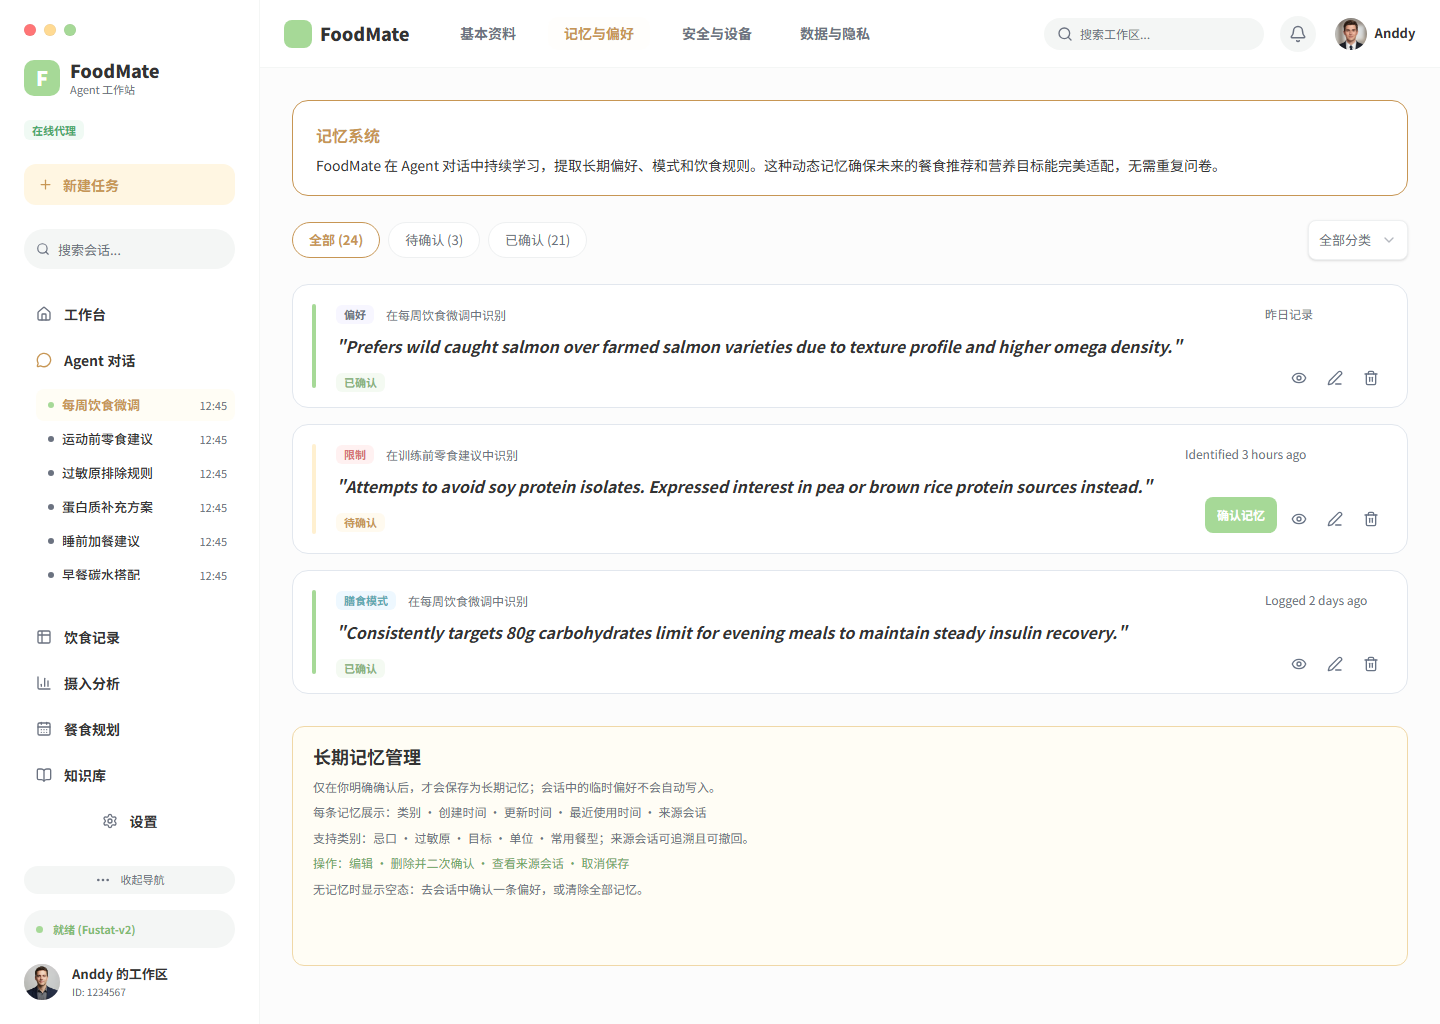
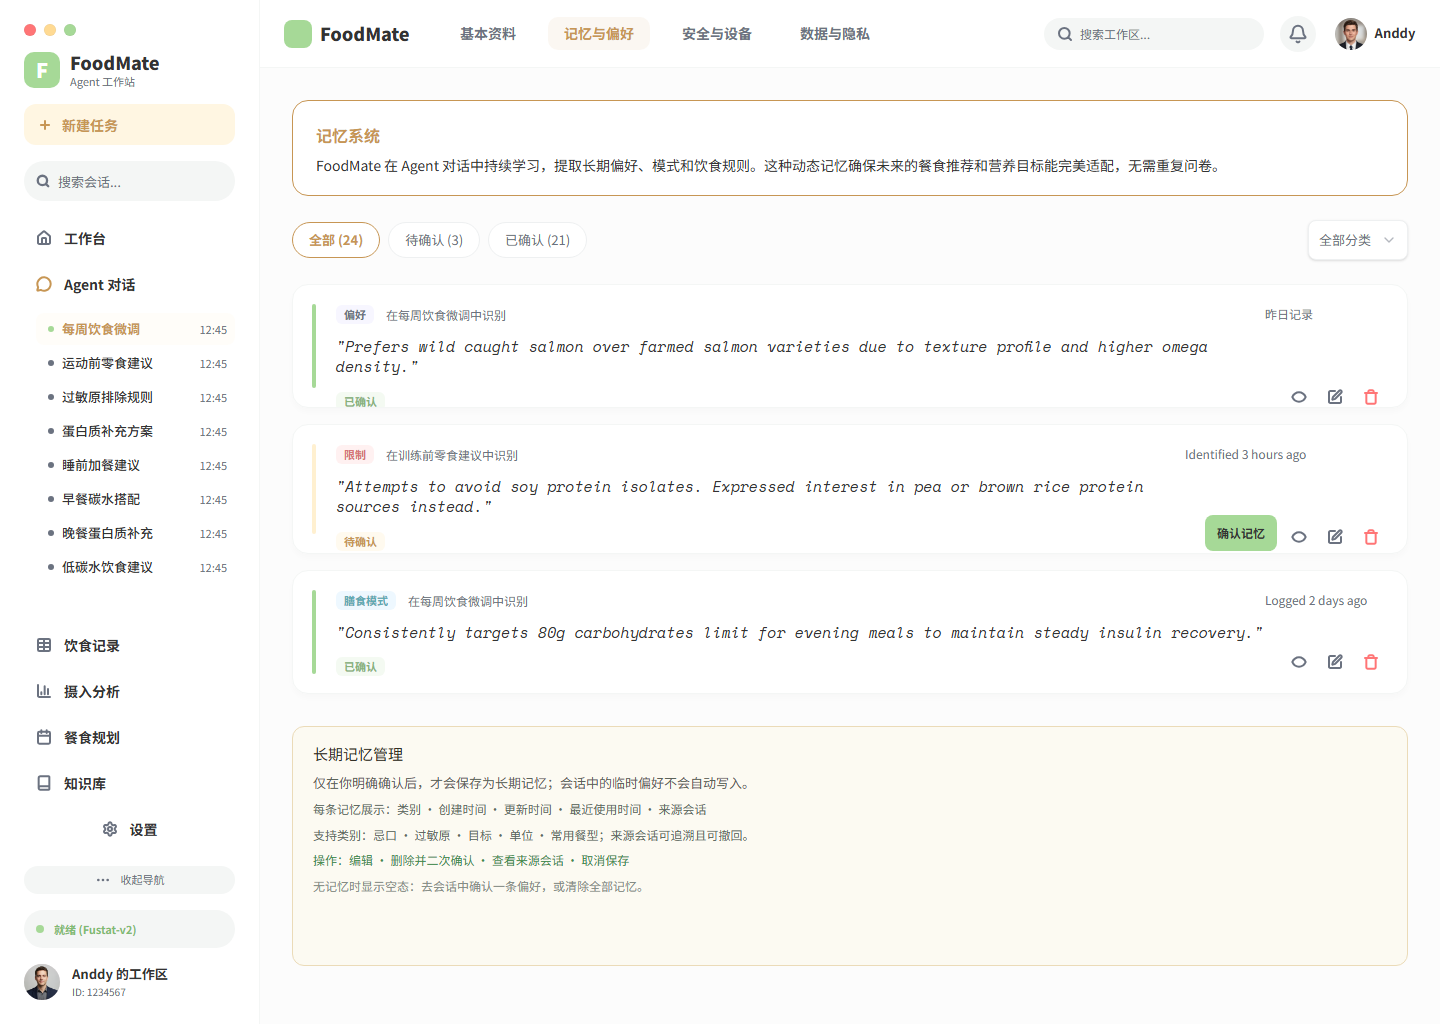
feat(profile): 收口 Figma Memories fixture

diff --git a/foodmate-ui/src/pages/ProfilePage/ProfilePage.tsx b/foodmate-ui/src/pages/ProfilePage/ProfilePage.tsx
@@ -34,6 +34,7 @@ import { Progress } from '@/components/ui/progress';
 import { Select, SelectContent, SelectItem, SelectTrigger, SelectValue } from '@/components/ui/select';
 import { Textarea } from '@/components/ui/textarea';
 import { Tooltip, TooltipContent, TooltipTrigger } from '@/components/ui/tooltip';
+import { FigmaWorkspaceAsset } from '@/components/workspace/FigmaWorkspaceAsset';
 import { cn } from '@/lib/utils';
 import { FIGMA_PROFILE_AVATARS, getDefaultAvatarForGender } from '@/lib/avatar';
 import { getAuthUser, logout } from '@/services/authService';
@@ -1201,6 +1202,7 @@ function MemoriesTab({ figmaFixture = false }: { figmaFixture?: boolean }) {
             <MemoryRow
               key={memory.id}
               memory={memory}
+              figmaFixture={figmaFixture}
               onConfirm={() =>
                 setMemories((items) =>
                   items.map((item) => (item.id === memory.id ? { ...item, status: 'confirmed' } : item)),
@@ -1293,12 +1295,14 @@ function MemoriesTab({ figmaFixture = false }: { figmaFixture?: boolean }) {
 
 function MemoryRow({
   memory,
+  figmaFixture = false,
   onConfirm,
   onEdit,
   onDelete,
   onSource,
 }: {
   memory: Memory;
+  figmaFixture?: boolean;
   onConfirm: () => void;
   onEdit: () => void;
   onDelete: () => void;
@@ -1324,13 +1328,25 @@ function MemoryRow({
           </Button>
         ) : null}
         <IconAction label="查看来源会话" onClick={onSource}>
-          <Eye aria-hidden="true" />
+          {figmaFixture ? (
+            <FigmaWorkspaceAsset variant="profile" name="memoryView" className={styles.figmaMemoryIcon} />
+          ) : (
+            <Eye aria-hidden="true" />
+          )}
         </IconAction>
         <IconAction label="编辑记忆" onClick={onEdit}>
-          <Edit3 aria-hidden="true" />
+          {figmaFixture ? (
+            <FigmaWorkspaceAsset variant="profile" name="memoryEdit" className={styles.figmaMemoryIcon} />
+          ) : (
+            <Edit3 aria-hidden="true" />
+          )}
         </IconAction>
         <IconAction label="删除记忆" danger onClick={onDelete}>
-          <Trash2 aria-hidden="true" />
+          {figmaFixture ? (
+            <FigmaWorkspaceAsset variant="profile" name="memoryDelete" className={styles.figmaMemoryIcon} />
+          ) : (
+            <Trash2 aria-hidden="true" />
+          )}
         </IconAction>
       </div>
     </Card>

diff --git a/foodmate-ui/src/pages/ProfilePage/ProfilePage.module.css b/foodmate-ui/src/pages/ProfilePage/ProfilePage.module.css
@@ -632,6 +632,8 @@
   height: 124px;
   min-height: 124px;
   border-radius: 16px;
+  border-color: #f4f6f5;
+  box-shadow: 0 4px 6px rgba(0, 0, 0, 0.02);
 }
 
 .figmaMemoriesPage .memoryRowPending {
@@ -642,6 +644,48 @@
 .figmaMemoriesPage .memoryGuidance {
   margin-top: 8px;
   border-radius: 12px;
+  border-color: #ebdbb8;
+  background: #fcfaf2;
+}
+
+.figmaMemoriesPage .memoryQuote {
+  font-family: var(--font-mono);
+  font-size: 15px;
+  font-style: italic;
+  font-weight: 400;
+}
+
+.figmaMemoriesPage .memoryGuidance h2 {
+  color: #333026;
+  font-size: 15px;
+  font-weight: 400;
+}
+
+.figmaMemoriesPage .memoryGuidance p {
+  color: #616b63;
+  font-size: 12px;
+}
+
+.figmaMemoriesPage .memoryGuidance p:first-of-type {
+  color: #5c6359;
+  font-size: 13px;
+}
+
+.figmaMemoriesPage .memoryGuidance .guidanceAction {
+  color: #428c4d;
+}
+
+.figmaMemoriesPage .memoryGuidance p:last-of-type {
+  color: #858c85;
+}
+
+.figmaMemoriesPage .confirmButton {
+  color: #333;
+}
+
+.figmaMemoryIcon {
+  width: 16px;
+  height: 16px;
 }
 
 .memoryIntro {

diff --git a/foodmate-ui/src/pages/ProfilePage/ProfilePage.test.tsx b/foodmate-ui/src/pages/ProfilePage/ProfilePage.test.tsx
@@ -106,6 +106,11 @@ describe('ProfilePage', () => {
     const memoryPage = screen.getByRole('heading', { name: '记忆系统' }).closest('[data-figma-layout]');
 
     expect(memoryPage).toHaveAttribute('data-figma-layout', 'profile-memories');
+    expect(memoryPage?.querySelector('img[src="/assets/figma/workspace/profile/memory-eye.svg"]')).toBeInTheDocument();
+    expect(memoryPage?.querySelector('img[src="/assets/figma/workspace/profile/memory-edit.svg"]')).toBeInTheDocument();
+    expect(
+      memoryPage?.querySelector('img[src="/assets/figma/workspace/profile/memory-trash.svg"]'),
+    ).toBeInTheDocument();
   });
 
   it('limits the security Figma fixture to the two reference cards', () => {

diff --git a/foodmate-ui/src/components/workspace/FigmaWorkspaceAsset.tsx b/foodmate-ui/src/components/workspace/FigmaWorkspaceAsset.tsx
@@ -30,7 +30,10 @@ export type FigmaWorkspaceAssetName =
   | 'metricCarbs'
   | 'metricFat'
   | 'chevronLeft'
-  | 'chevronRight';
+  | 'chevronRight'
+  | 'memoryView'
+  | 'memoryEdit'
+  | 'memoryDelete';
 
 type FigmaWorkspaceAssetProps = Omit<ImgHTMLAttributes<HTMLImageElement>, 'src' | 'alt'> & {
   variant: WorkspaceFixtureVariant;
@@ -170,6 +173,9 @@ const assetFileNames: Record<WorkspaceFixtureVariant, Partial<Record<FigmaWorksp
     statusDot: 'status-dot.svg',
     sessionDotActive: 'session-dot-active.svg',
     sessionDotDefault: 'session-dot-default.svg',
+    memoryView: 'memory-eye.svg',
+    memoryEdit: 'memory-edit.svg',
+    memoryDelete: 'memory-trash.svg',
   },
 };
 

diff --git a/docxs/功能实现说明/Figma前端像素级验收报告.md b/docxs/功能实现说明/Figma前端像素级验收报告.md
@@ -9,7 +9,7 @@
 1. Figma 文件内部结构、组件系统、Prototype 和画板截图回读已完成。
 2. 前端代码与 Figma 画板的自动化像素差异已覆盖 105 个已建立映射的页面/状态，105 个结果均为 `DIFF_REVIEW`，不能标记为像素级通过。
 
-因此当前不能宣称“Figma 105 张画板已全部像素级通过”。已经完成的是可复核的 Figma 全量结构验收、105 个画板的路由/状态映射、差异证据收集，以及运行时几何、可见文字和 DPR 检查；当前 mapping 中 87 项已完成人工复核，18 项仍为 `PENDING`，并且已复核项仍存在可见差异，结果继续保留为 `DIFF_REVIEW`。
+因此当前不能宣称“Figma 105 张画板已全部像素级通过”。已经完成的是可复核的 Figma 全量结构验收、105 个画板的路由/状态映射、差异证据收集，以及运行时几何、可见文字和 DPR 检查；当前 mapping 中 88 项已完成人工复核，17 项仍为 `PENDING`，并且已复核项仍存在可见差异，结果继续保留为 `DIFF_REVIEW`。
 
 ## 1.1 2026-09-06 Workspace/Home 与 Agent Chat 资源收口
 
@@ -52,6 +52,20 @@
 - [x] 本批次统一门禁通过：Vitest `40/40` 个测试文件、`257/257` 个用例，`typecheck`、`lint`、`format:check`、`build`、`qa:figma:validate` 和 `git diff --check`。
 - [ ] 三项自动 diff 均为非零，且人工复核确认字体、头像、图标和浏览器光栅化差异仍存在，全部继续保持 `DIFF_REVIEW`，不能标记像素级 `PASS`。
 - [ ] 本批次不代表其余画板重新采集或完成 105 项全量人工复核；全量聚合继续为 `105 DIFF_REVIEW / 0 PASS / 0 UNMAPPED / 0 SIZE_MISMATCH`。
+- [ ] iconfont 实体包、完整 CSS/Unicode 映射、来源和许可证仍未提供，资源登记继续保持 `BLOCKED`。
+
+## 1.4 2026-09-06 Profile Memories 增量验收
+
+本节只处理 Profile Memories 画板 `806:1281`，不重新采集或人工验收其它画板。Figma 文件保持只读；真实模式的记忆操作和服务边界未改变。
+
+| 画板 | Figma 节点 | 前端入口 | Figma PNG | 浏览器 PNG | 视口 / DPR | 差异比例 | MAE | RMSE | 最大通道差异 | 结论 |
+|---|---|---|---|---|---|---:|---:|---:|---:|---|
+| Profile Memories | `806:1281` | `/profile?state=memories` | `recaptured-figma/profile-memories-live-2026-09-06.png` | `recaptured/dpr1-profile-memories-browser-2026-09-06.png` | `1440×1024 / 1` | 21.5618% | 4.279536 | 21.369497 | 226 | `DIFF_REVIEW` |
+
+- [x] 已使用实时 Figma 原始尺寸 PNG 和 Chrome `152.0.7977.77` 浏览器 PNG 完成同尺寸比较；视口为 `1440×1024`、DPR `1`、字体已加载且页面无横向溢出。
+- [x] `scripts/png-diff.mjs` 输出 `differentPixels=317942`、差异比例 `21.5618%`、`MAE=4.279536`、`RMSE=21.369497`、最大通道差异 `226`。
+- [x] 人工复核确认介绍卡、筛选区、记忆卡、长期记忆管理卡和 Profile Memories 专属图标结构已对齐；仍存在字体、头像、控件状态、图标和局部文字换行差异。
+- [ ] 本画板继续保持 `DIFF_REVIEW`，不能标记为像素级 `PASS`；本节不代表其余 104 个画板重新采集或完成全量人工复核。
 - [ ] iconfont 实体包、完整 CSS/Unicode 映射、来源和许可证仍未提供，资源登记继续保持 `BLOCKED`。
 
 ## 2. Figma 文件内部验收

diff --git a/docxs/功能实现说明/前端已完成实现清单.md b/docxs/功能实现说明/前端已完成实现清单.md
@@ -52,6 +52,21 @@
 - [ ] 本画板仍为 `DIFF_REVIEW`，不能标记为像素级 `PASS`；本批次没有重新验收全部 105 个画板。
 - [ ] iconfont 实体包、完整 CSS/Unicode 映射、来源和许可证仍缺失，资源登记继续保持 `BLOCKED`。
 
+## 当前批次：Profile Memories Figma fixture 收口（2026-09-06）
+
+本批次只处理 Profile Memories 画板 `806:1281`，不重新采集或重新判定其它画板。Figma 设计稿保持只读；真实模式的记忆查询、编辑、删除、确认和来源会话边界未改变。
+
+| 画板 | Figma 节点 | 前端入口 | Figma PNG | 浏览器 PNG | 视口 / DPR | 差异比例 | MAE | RMSE | 最大通道差异 | 结论 |
+|---|---|---|---|---|---|---:|---:|---:|---:|---|
+| Profile Memories | `806:1281` | `/profile?state=memories` | `recaptured-figma/profile-memories-live-2026-09-06.png` | `recaptured/dpr1-profile-memories-browser-2026-09-06.png` | `1440×1024 / 1` | 21.5618% | 4.279536 | 21.369497 | 226 | `DIFF_REVIEW` |
+
+- [x] Figma Memories 的介绍卡、全部/待确认/已确认筛选、分类选择、三条记忆卡和长期记忆管理卡已按实时节点复核；Figma 专属查看、编辑和删除 SVG 已通过 `FigmaWorkspaceAsset` 的 `profile` variant 加载。
+- [x] 浏览器证据由 Chrome `152.0.7977.77` 在 `1440×1024`、DPR `1`、字体加载完成且无横向溢出条件下采集；实时 Figma PNG 已保存到 `foodmate-ui/.qa/figma-pixel-acceptance/recaptured-figma/`。
+- [x] `scripts/png-diff.mjs` 同尺寸结果为 `differentPixels=317942`、差异比例 `21.5618%`、`MAE=4.279536`、`RMSE=21.369497`、最大通道差异 `226`。
+- [x] 已完成人工视觉复核；页面结构、记忆卡、筛选区和长期记忆管理卡已确认，仍存在字体、头像、控件状态、图标和局部文字换行差异，因此继续保持 `DIFF_REVIEW`。
+- [x] 本大点完成后统一执行 `npm run test`（40/40 个测试文件、257/257 个用例）、`npm run typecheck`、`npm run lint`、`npm run format:check`、`npm run build`、`npm run qa:figma:validate` 和 `git diff --check`，均通过；证据校验为 `structuralPass=true`、`strictDprPass=true`、`mappedPass=0`、`diffReview=105`、`errors=[]`。本批次未重新验收全部 105 个画板。
+- [ ] iconfont 实体包、完整 CSS/Unicode 映射、来源和许可证仍缺失，资源登记继续保持 `BLOCKED`。
+
 ## 1. 文档信息
 
 | 项目 | 内容 |
